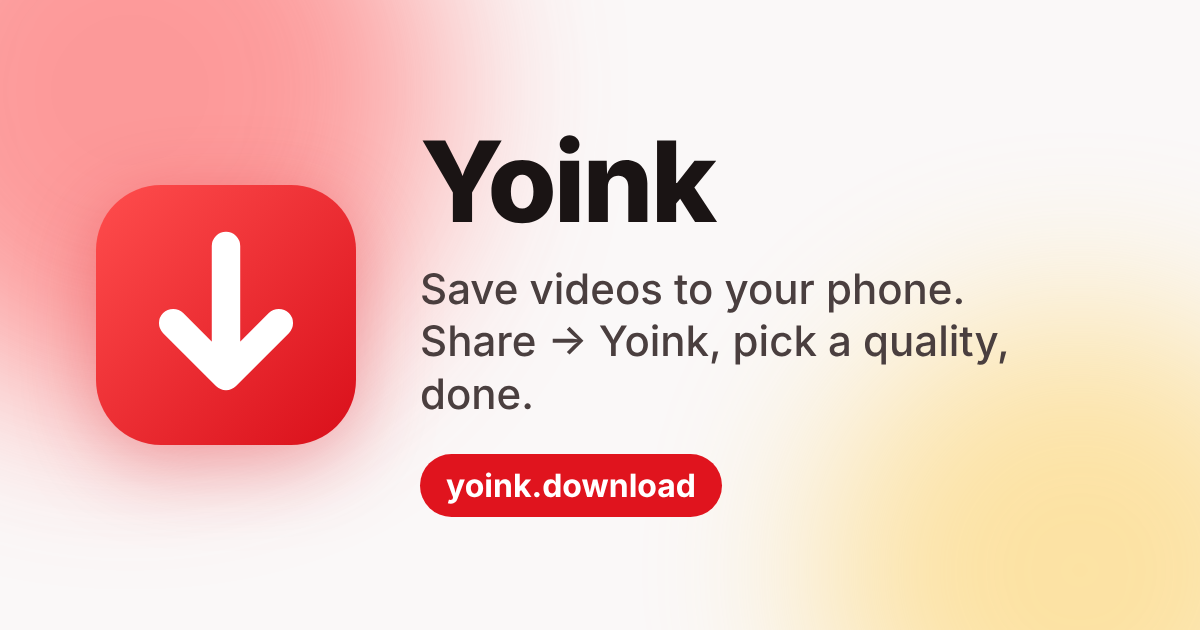
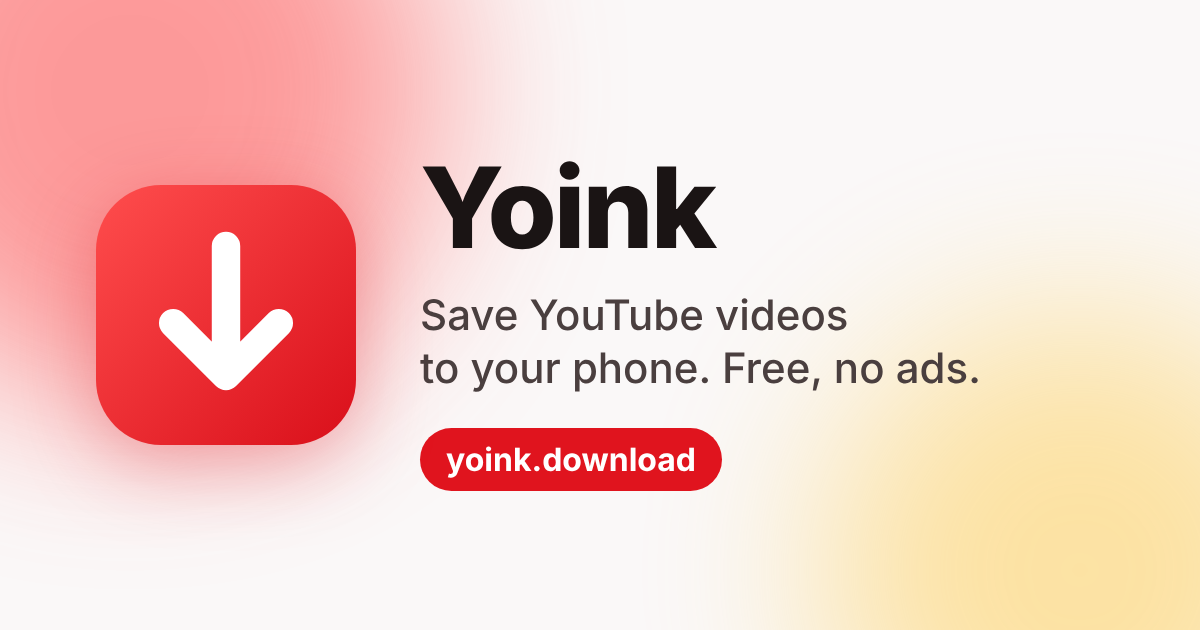
Say YouTube in the website headline and link preview

Changed region(s): [[0.3392, 0.4222, 0.8325, 0.8444], [0.3392, 0.2111, 0.6167, 0.3921]]

diff --git a/docs/index.html b/docs/index.html
@@ -3,7 +3,7 @@
 <head>
   <meta charset="utf-8">
   <meta name="viewport" content="width=device-width, initial-scale=1">
-  <title>Yoink — Save videos on Android</title>
+  <title>Yoink — Save YouTube videos on Android</title>
   <meta name="description" content="Yoink is a free, open-source Android app. Tap Share → Yoink in YouTube and the video saves to your phone.">
   <meta name="theme-color" content="#e0141e">
   <link rel="canonical" href="https://yoink.download/">
@@ -13,14 +13,14 @@
   <meta property="og:type" content="website">
   <meta property="og:site_name" content="Yoink">
   <meta property="og:url" content="https://yoink.download/">
-  <meta property="og:title" content="Yoink — Save videos on Android">
+  <meta property="og:title" content="Yoink — Save YouTube videos on Android">
   <meta property="og:description" content="Free, open-source Android app. Tap Share → Yoink, pick a quality, and the video saves to your phone. No ads, no account.">
   <meta property="og:image" content="https://yoink.download/og.png">
   <meta property="og:image:width" content="1200">
   <meta property="og:image:height" content="630">
-  <meta property="og:image:alt" content="Yoink: save videos to your phone">
+  <meta property="og:image:alt" content="Yoink: save YouTube videos to your phone">
   <meta name="twitter:card" content="summary_large_image">
-  <meta name="twitter:title" content="Yoink — Save videos on Android">
+  <meta name="twitter:title" content="Yoink — Save YouTube videos on Android">
   <meta name="twitter:description" content="Free, open-source Android app. Tap Share → Yoink, pick a quality, done.">
   <meta name="twitter:image" content="https://yoink.download/og.png">
 
@@ -32,7 +32,7 @@
     "name": "Yoink",
     "operatingSystem": "Android 10+",
     "applicationCategory": "MultimediaApplication",
-    "description": "Free, open-source Android app that saves videos and audio from the Share menu. Everything runs on your phone.",
+    "description": "Free, open-source Android app that saves YouTube videos and audio from the Share menu. Everything runs on your phone.",
     "url": "https://yoink.download/",
     "downloadUrl": "https://github.com/hishamhashmi100/Yoink/releases/latest/download/yoink-arm64-v8a.apk",
     "license": "https://www.gnu.org/licenses/gpl-3.0.html",
@@ -511,7 +511,7 @@
           // Keep the cartoon playing, unless the visitor has asked their device for less motion.
           if (!(window.matchMedia && matchMedia("(prefers-reduced-motion: reduce)").matches)) document.getElementById("yoink").classList.add("play");
         </script>
-        <h1>Save videos to your phone</h1>
+        <h1>Save YouTube videos to your phone</h1>
         <p class="lead">In YouTube, tap <b>Share → Yoink</b>, pick a quality, done. Free, open source, no ads.</p>
 
         <a class="btn" id="download-btn" href="#">
